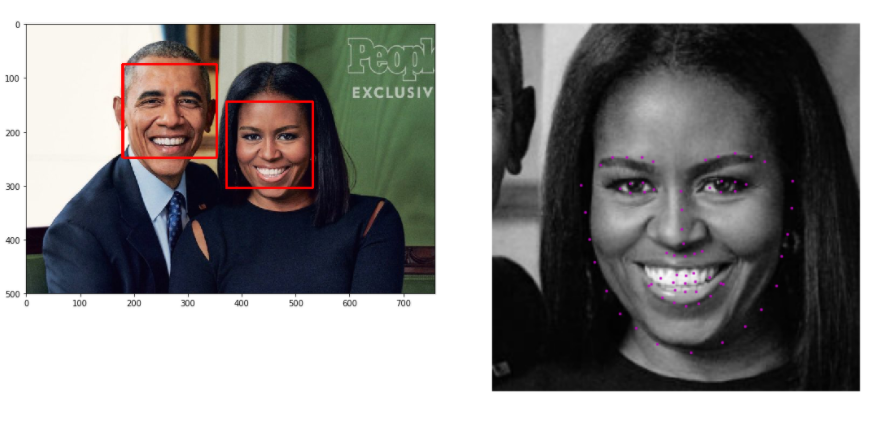
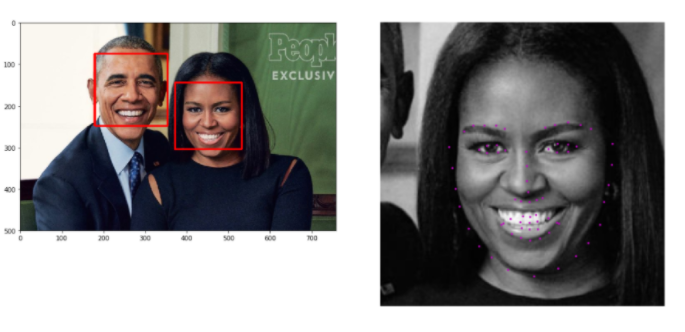
Resize images

diff --git a/README.md b/README.md
@@ -1,26 +1,29 @@
 # Facial Keypoint Detection
-This project is part of my computer vision course at[ Udacity](https://www.udacity.com/course/computer-vision-nanodegree--nd891). A neural convolution network recognizes faces in images based on learned facial keypoints. 
+This project is part of my computer vision course of[ Udacity](https://www.udacity.com/course/computer-vision-nanodegree--nd891). A neural convolution network recognizes faces in images based on learned facial keypoints. 
 These keypoints mark important areas of the face: the eyes, corners of the mouth, the nose, etc. These keypoints are relevant for a variety of tasks, such as face filters, emotion recognition, pose recognition, and so on. 
 
 Likewise the computer vision method hair feature-based cascade uses these features, see [OpenCV-Python tutorial](https://opencv-python-tutroals.readthedocs.io/en/latest/py_tutorials/py_objdetect/py_face_detection/py_face_detection.html).
 
 [PyTorch](https://pytorch.org/), the open source machine learning framework, is used to implement, train and test the convolutional neural network.
-
+    
+    
 ### Examples
 
-**Detect all faces using Haar Cascade Classifiers using OpenCV**   
+**Detect all faces using Haar Cascade Classifiers using OpenCV**
+![Cascade Classifiers Images](/output_images/cascade_classifier.png "Detect all faces using Haar Cascade Classifiers using OpenCV")   
 
 **Detect facial keypoint with a Convolutional Neural Network**
-
-
+![CNN Images](/output_images/cnn_persons.png "Detect facial keypoint with a Convolutional Neural Network")
+   
+   
 ## Important files
 - 1_Load_and_Visualize_Data.ipynb : Learn to create a data loader and visualize the data
 - data_load.py : Data loader
 - 2_Define_the_Network_Architecture.ipynb : Load, train and validate the convolutional neural network.
 - models.py :The Convolutional neural network
 - 3_Facial_Keypoint_Detection_Complete_Pipeline.ipynb : Test and compare the model with the cascade classifier.
-
-
+    
+    
 ## Installation and usage
 Clone the repository
 ```sh
@@ -28,8 +31,8 @@ $ cd <your workspace folder>
 $ git clone https://github.com/embmike/Facial-Keypoint-Detection.git
 ```
 
-Use the code on your with [Anaconda](https://www.anaconda.com/) or use cloude computing like [Google Colaboratory(https://colab.research.google.com/)
-
-
+You can use the code for example on your computer with [Anaconda](https://www.anaconda.com/) or via cloude computing with [Google Colaboratory](https://colab.research.google.com/)
+    
+    
 ## Licence
 This project is licensed under the terms of the [![License: MIT](https://img.shields.io/badge/License-MIT-yellow.svg)](https://opensource.org/licenses/MIT)
